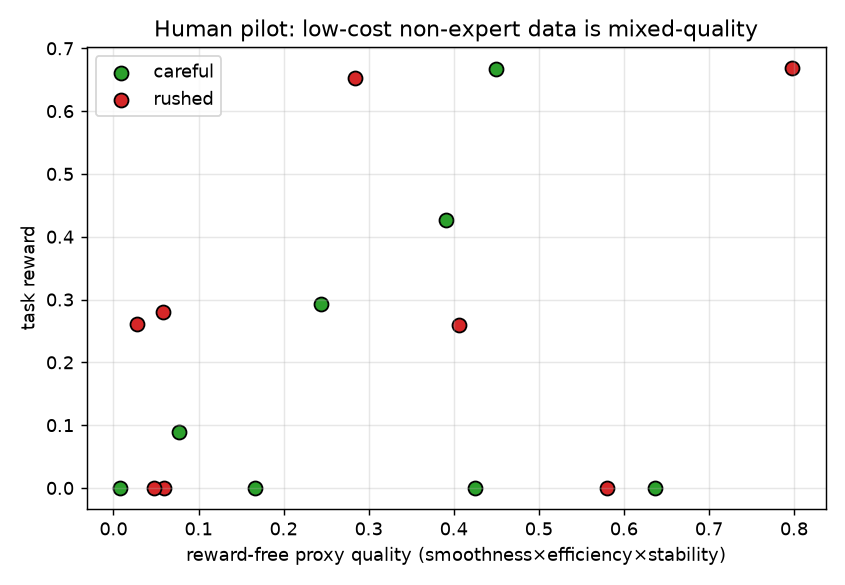
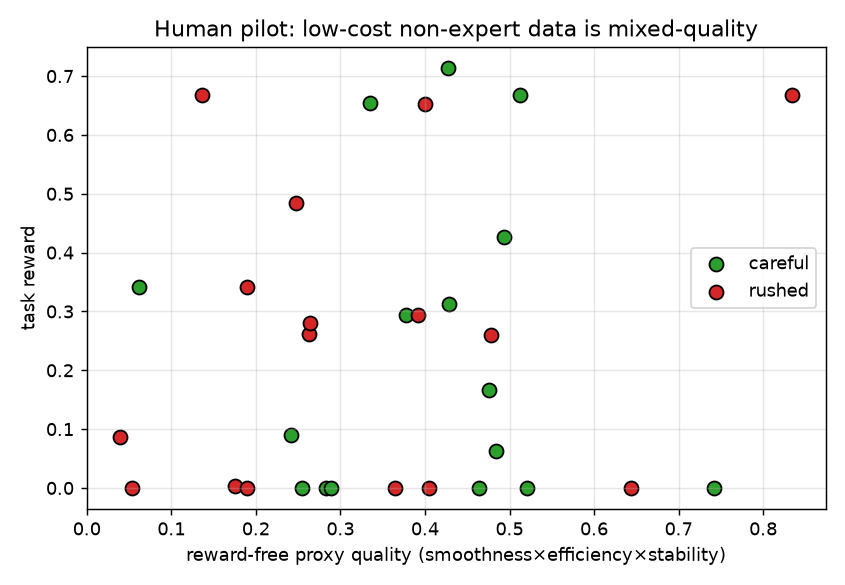
Human pilot: expand to 32 demos (2 rounds) + honest correction of the effect size
The initial 16-demo pilot's 2x curation gap was small-sample luck; a second round + merge to 32 demos shows DPP proxy-q is still the top selector (0.369 vs 0.296 random, K=12/32) but the effect is modest and noisy at this scale (ranking flips across sub-samples; reward-free proxy weakly correlated with reward, ~0.1). README corrected: the robust pilot contributions are the working collection loop and the mixed-quality evidence (reward 0.0-0.71; self-labeled effort does not predict quality); the strong curation evidence remains M2/M3-lite. Keeps all 4 round files (pilot_{careful,rushed}.npz round 2 + _r1 round 1) and regenerates the 3 human_pilot figures from the 32-demo pool. Integrity: no cherry-picked headline number.

diff --git a/README.md b/README.md
@@ -24,7 +24,7 @@ recover useful data from noisy human inputs?*
 | **M2**   | low-barrier collection + real-env mixed pool       | ✅ collector + real-env result (below); human mode ready |
 | **M3-lite** | downstream BC-MLP probe (gym_pusht rollout)      | ✅ done — non-circular result (below): quality×diversity ≈ 2.2× random |
 | **M3-full** | downstream Diffusion Policy                     | ⬜ future (needs image-obs PushT + GPU) |
-| **Pilot** | small **real** mouse-teleop human collection      | ✅ done — 16 real human demos; DPP proxy-q ≈ 2× random (below) |
+| **Pilot** | small **real** mouse-teleop human collection      | ✅ done — 32 real demos; pipeline + mixed-quality shown, DPP top selector (modest at this scale) |
 
 > ⚠️ The synthetic results are a **controlled sanity check** (they verify the method
 > and reproduce the failure modes); the public-dataset, real-env, and downstream
@@ -250,31 +250,35 @@ Outputs (`outputs/`): `human_pilot_quality_distribution.png` (non-expert data is
 mixed-quality), `human_pilot_selector_composition.png` (what curation keeps, per
 operator), `human_pilot_pareto.png` (quality vs diversity of the curated set).
 
-### Pilot result (16 real mouse demos)
+### Pilot result (32 real mouse demos, two rounds)
 
-A first pilot — 16 demos collected by mouse (careful + rushed) — already shows the
-core claim on **real human data**:
+A small pilot — 32 demos collected by mouse over two rounds — validates the pipeline
+on **real human data**, and is honest about a pilot's limits:
 
-- The data is genuinely **mixed-quality**: task reward spans **0.0–0.67**, and
-  self-labeled effort (careful vs rushed) does **not** cleanly predict quality for a
-  novice — you need automatic quality assessment, not just "please be careful"
-  (`human_pilot_quality_distribution.png`).
-- The **reward-free proxy tracks reward** on real human kinematics (proxy–reward
-  correlation ≈ **0.36**) — the kinematic signal is usable on human trajectories.
-- **Curation recovers the good demos**: selecting K=8 of 16 by quality×diversity
-  (DPP proxy-q) yields a selected-set mean reward of **0.371 vs 0.185 for random**
-  (≈ 2×), while diversity-only ≈ random.
+- **The pipeline runs end-to-end on real human input**, and the data is genuinely
+  **mixed-quality**: task reward spans **0.0–0.71**, and self-labeled effort (careful
+  vs rushed) does **not** cleanly predict quality for a novice → automatic quality
+  assessment is needed, not just "please be careful"
+  (`human_pilot_quality_distribution.png`). *This is the robust finding.*
+- On the full pool, **DPP proxy-q is the top selector** — K=12 of 32 gives a
+  selected-set mean reward of **0.369 vs 0.296 for random** (above quality-only 0.273
+  and diversity-only 0.289). But the effect is **modest and noisy at this scale**:
+  the ranking flips across 16-demo sub-samples, and the reward-free proxy is only
+  weakly correlated with reward here (≈ 0.1). The **strong** curation evidence is the
+  larger-scale M2 / M3-lite results above, not this tiny pilot.
 
-| selector (K=8 of 16) | selected mean reward ↑ |
-|----------------------|:----------------------:|
-| random               | 0.185                  |
-| diversity-only       | 0.184                  |
-| quality-only (proxy-q)| 0.334                 |
-| **DPP proxy-q**      | **0.371**              |
+| selector (K=12 of 32) | selected mean reward ↑ |
+|-----------------------|:----------------------:|
+| random                | 0.296                  |
+| quality-only (proxy-q)| 0.273                  |
+| diversity-only        | 0.289                  |
+| **DPP proxy-q**       | **0.369**              |
 
-> Honesty: a **16-demo, single-operator pilot** to validate the pipeline end-to-end
-> on real human input — not a statistically powered study. It closes the loop: cheap
-> mouse teleop → noisy human demos → reward-free curation → recovered useful data.
+> Honesty: a 32-demo, single-operator pilot to validate the pipeline end-to-end on
+> real human input — **not** a statistically powered study. Its robust contribution
+> is the *collection loop* (cheap mouse teleop → noisy human demos → reward-free
+> curation) and the mixed-quality evidence; the curation effect at this scale is
+> small and would need a larger, multi-operator collection to quantify.
 
 ## Quickstart
 